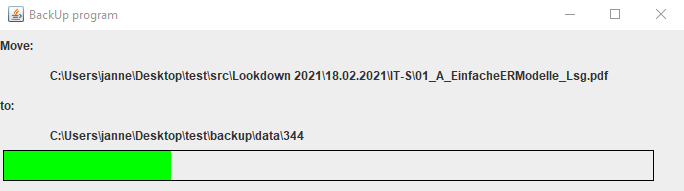
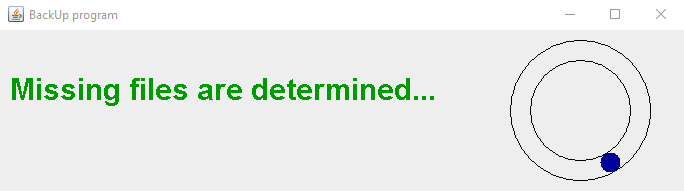
update README.md

diff --git a/src/interfaces/Update.java b/src/interfaces/Update.java
@@ -71,10 +71,9 @@ public interface Update extends Collect, PathList{
 
 	default public void moveMissingFiles(Move moveMethod) {
 		ArrayList<Integer> missingIndex = new ArrayList<Integer>();
+		main.Main.userInterface.showLoadingScreen("Missing files are determined...");
 		try {
-			main.Main.userInterface.showLoadingScreen("Missing files are determined...");
 			collectFiles(new File(Main.getRootSourcePath()), main.Main.update);
-			main.Main.userInterface.closeLoadingScreen();
 		} catch (IOException e) {
 			e.printStackTrace();
 		}
@@ -104,10 +103,13 @@ public interface Update extends Collect, PathList{
 			makeRelPath();
 			writeRelPath();
 			int to = main.Storage.Update.relDestinationPath.size();
+			main.Main.userInterface.closeLoadingScreen();
 			for (int i = 0; i < missingIndex.size(); i++) {
 				moveMethod.move(new File(main.Storage.Update.absolutSourcePath.get((int) missingIndex.get(i))), new File(Main.getDataPath() + "/" + to));
 				to++;
 			}
+		} else {
+			main.Main.userInterface.closeLoadingScreen();
 		}
 	}
 }

diff --git a/README.md b/README.md
@@ -26,6 +26,9 @@ You can choose the target path with a file cooser or copy the path into it.
 Set a password.
 <br>
 <p align="center"><img src="pics/p4.png" alt="Sample image could not be loaded."/></p><br>
+The missing data will now be determined.
+<br>
+<p align="center"><img src="pics/p5.png" alt="Sample image could not be loaded."/></p><br>
 The last thing to do is to create the backup. Then the window closes.
 <br>
-<p align="center"><img src="pics/p5.png" alt="Sample image could not be loaded."/></p>
+<p align="center"><img src="pics/p6.png" alt="Sample image could not be loaded."/></p>
